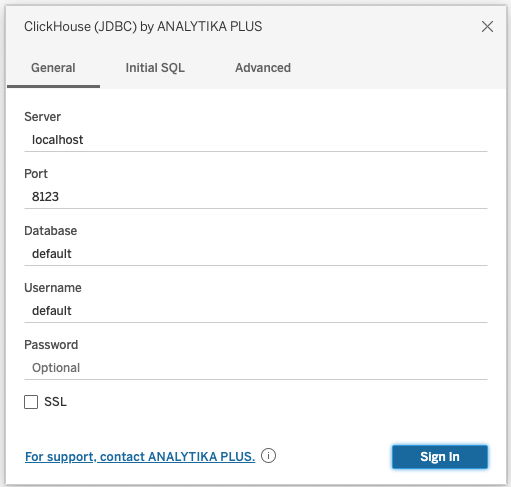
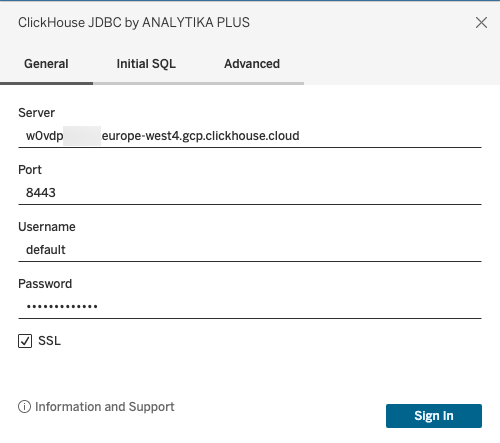
Update tableau-and-clickhouse.md to use ClickHouse cloud examples

Changed region(s): [[0.0, 0.0, 1.0, 1.0], [0.21, 0.2935, 0.6, 0.3228]]

diff --git a/docs/en/integrations/data-visualization/tableau-and-clickhouse.md b/docs/en/integrations/data-visualization/tableau-and-clickhouse.md
@@ -42,16 +42,19 @@ Now that you have the driver and connector in the appropriate folders on your ma
 
     ![ClickHouse JDBC](./images/tableau_connecttoserver.png)
 
-3. Click on **ClickHouse JDBC**  and a dialog window pops up. Enter the following details:
+3. Click on **ClickHouse JDBC**  and a dialog window pops up. Enter your connection details:
 
-    | Setting  | Value |
-    | ----------- | ----------- |
-    | Server      |  **localhost**  |
-    | Port   |  **8123** |
-    | Database |  **default** |
-    | Username | **default** |
-    | Password | *leave blank* |
+    | Setting  | Value                                             |
+    | ----------- |---------------------------------------------------|
+    | Server      | **w0vdp\**\**.europe-west4.gcp.clickhouse.cloud** |
+    | Port   | **8443**                                          |
+    | Database | **default**                                       |
+    | Username | **default**                                       |
+    | Password | *\*****                                           |
 
+:::note
+When working with ClickHouse cloud, it's required to enable the SSL checkbox for secure connections.
+:::
 <br/>
 
 Your settings should look like:
